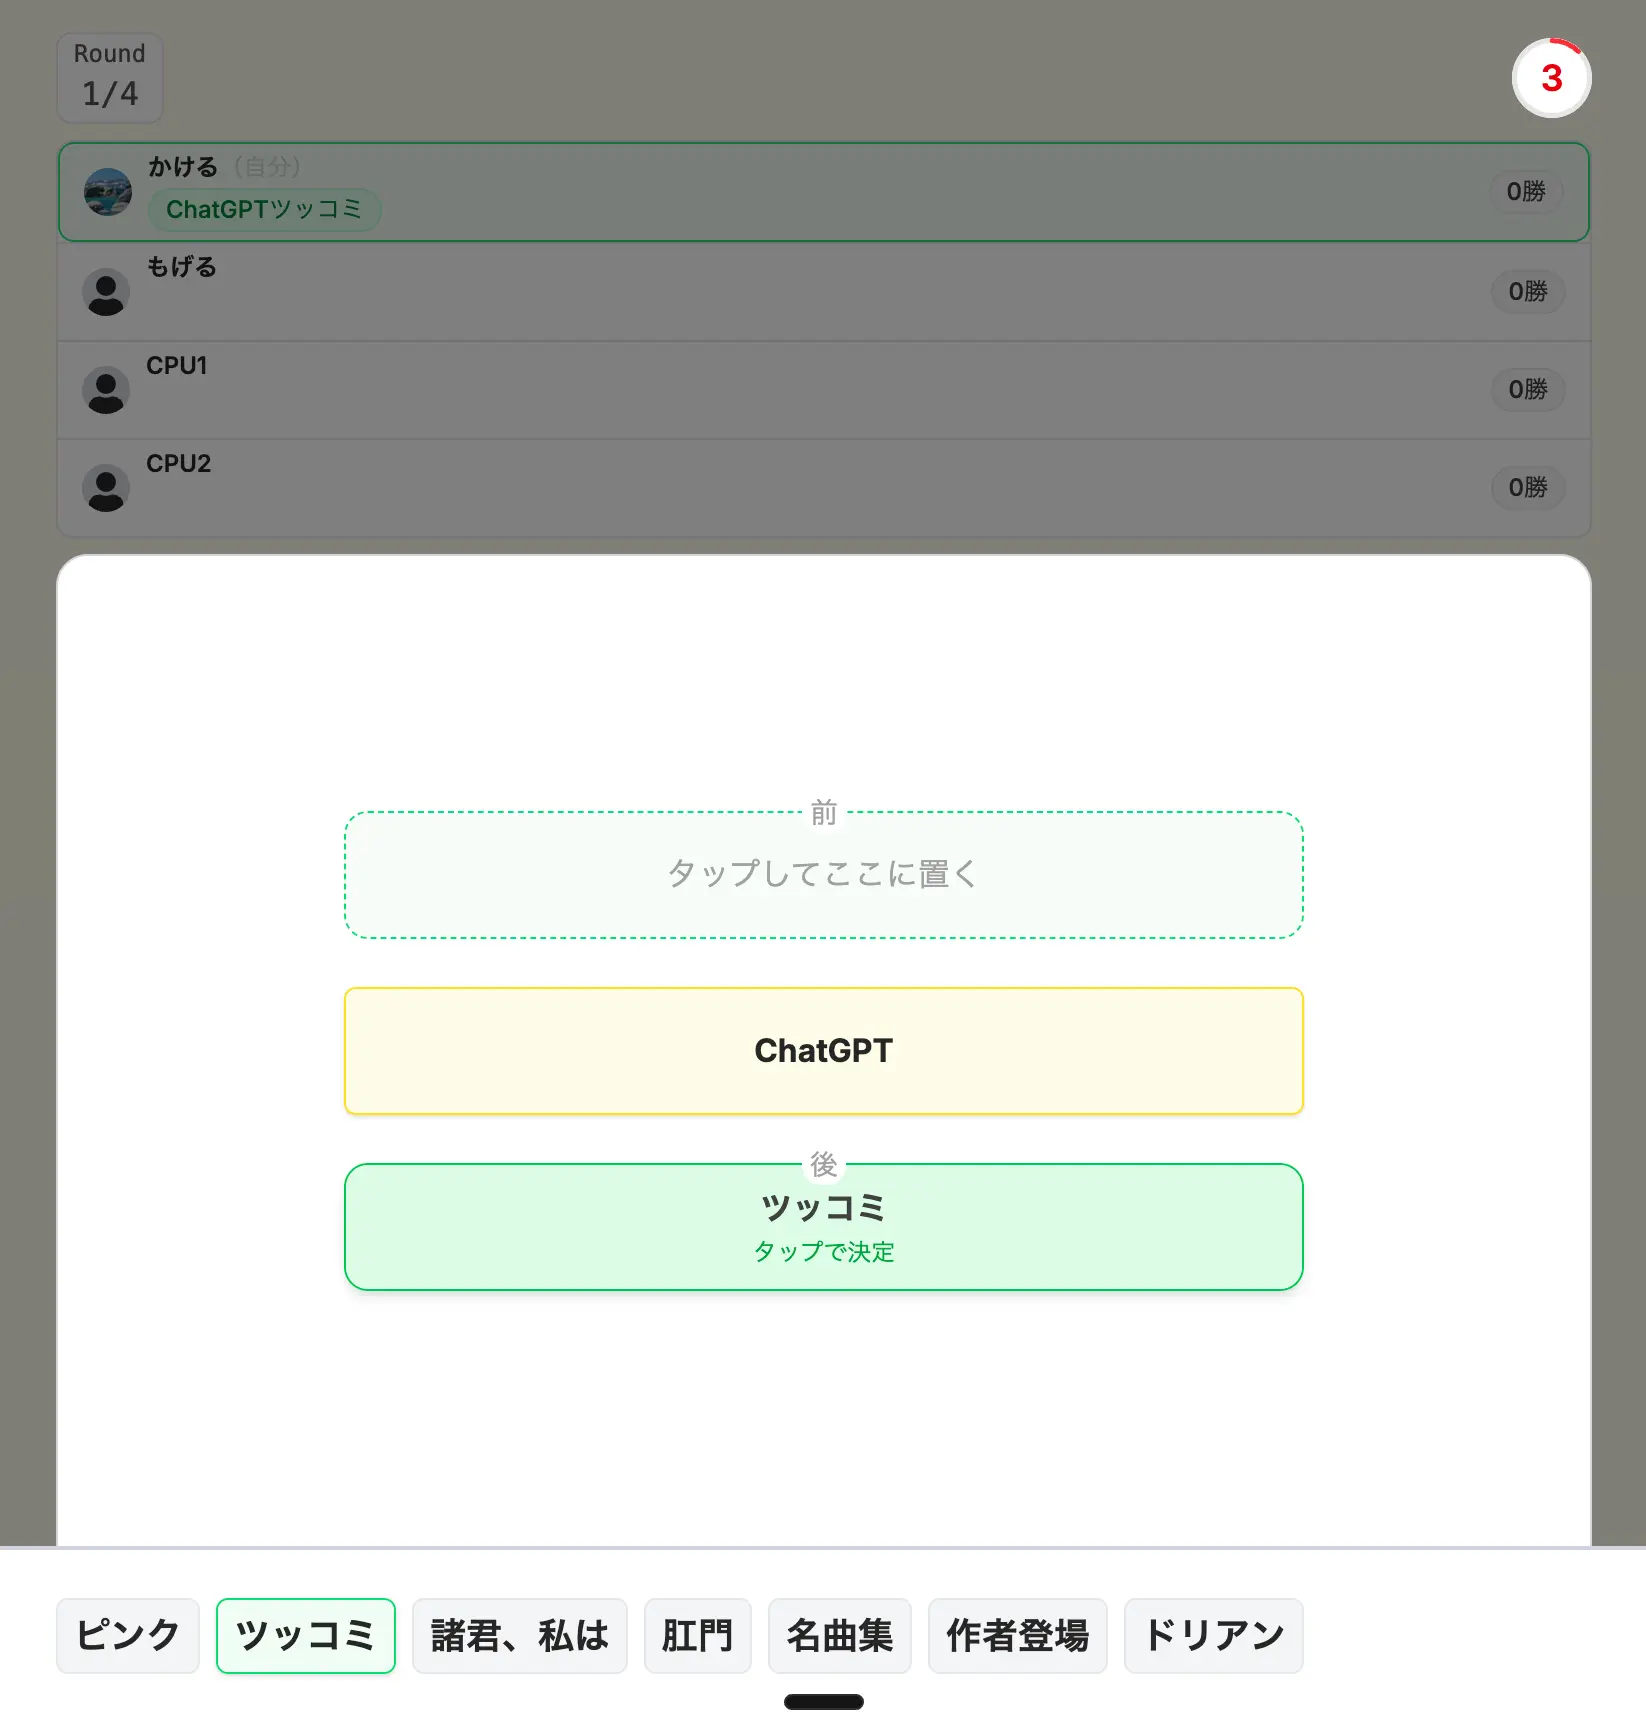
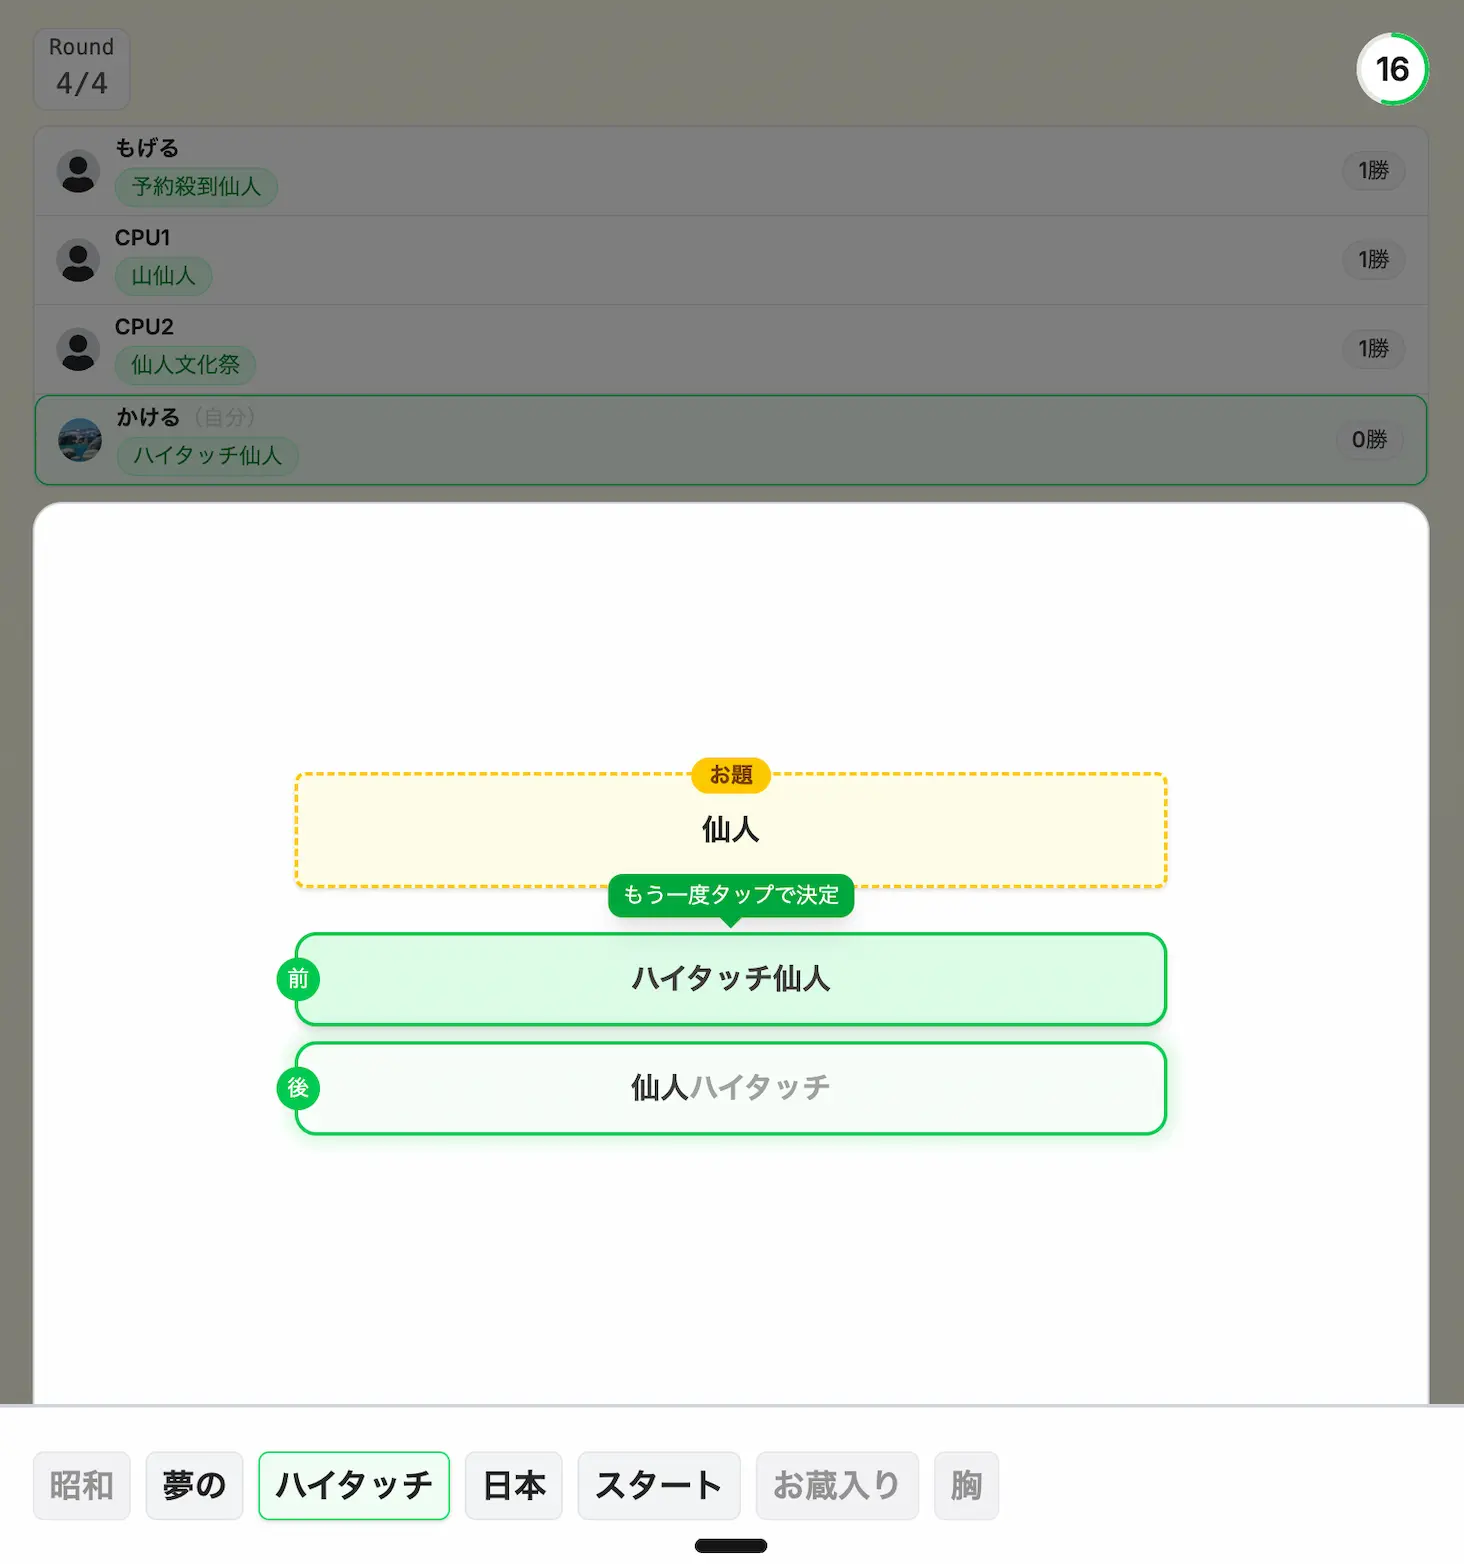
fix(web): 遊び方ページの説明文とスクリーンショットを更新
- 提出フェーズの説明を新UIの組み合わせ選択方式に合わせて修正
- ゲーム時間の記載を「約2〜10分」に修正
- 各フェーズのスクリーンショットを最新のUIに差し替え

diff --git a/packages/web/app/routes/guide/route.tsx b/packages/web/app/routes/guide/route.tsx
@@ -21,7 +21,7 @@ const FEATURES = [
 		title: "1人でもCPUと対戦",
 	},
 	{
-		description: "1ゲーム約5〜10分。空き時間にサクッと楽しめます。",
+		description: "1ゲーム約2〜10分。空き時間にサクッと楽しめます。",
 		title: "短時間でサクッと遊べる",
 	},
 ] as const;
@@ -152,7 +152,7 @@ export default function HowToPlayPage() {
 							{/* STEP 3 */}
 							<Step number={3} title="テーマに言葉をくっつけて造語！">
 								<p>
-									ラウンドが始まると、みんなに共通のテーマ牌（お題）が出されます。手持ち牌から1枚選んで、テーマの「前」か「後ろ」にくっつけて造語を作りましょう。
+									ラウンドが始まると、みんなに共通のテーマ牌（お題）が出されます。手持ち牌から1枚選ぶと、2つの組み合わせが表示されるので、好きな方を選んで造語を作りましょう。
 								</p>
 								<div className="rounded-lg bg-yellow-100 p-16">
 									<p className="mb-4 font-bold text-xs text-yellow-700">
